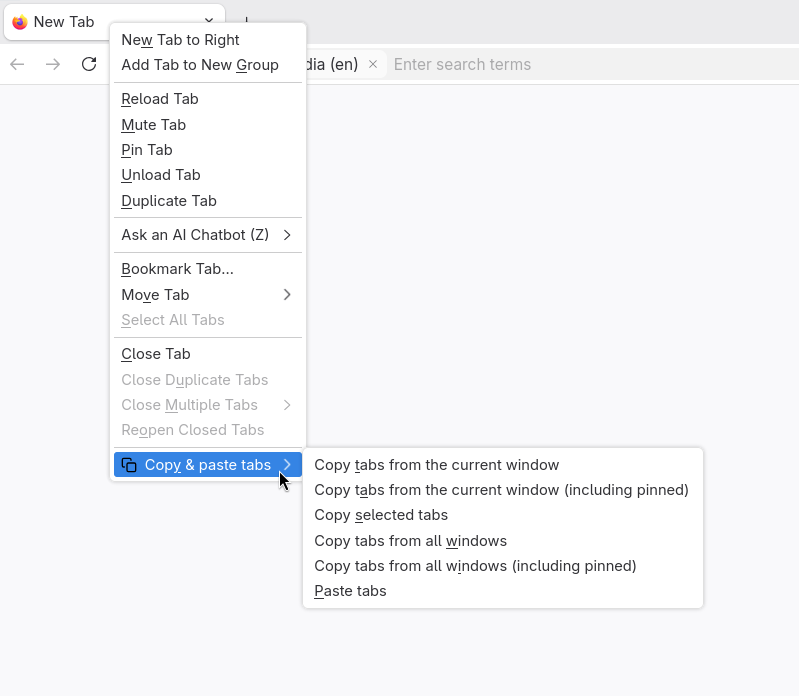
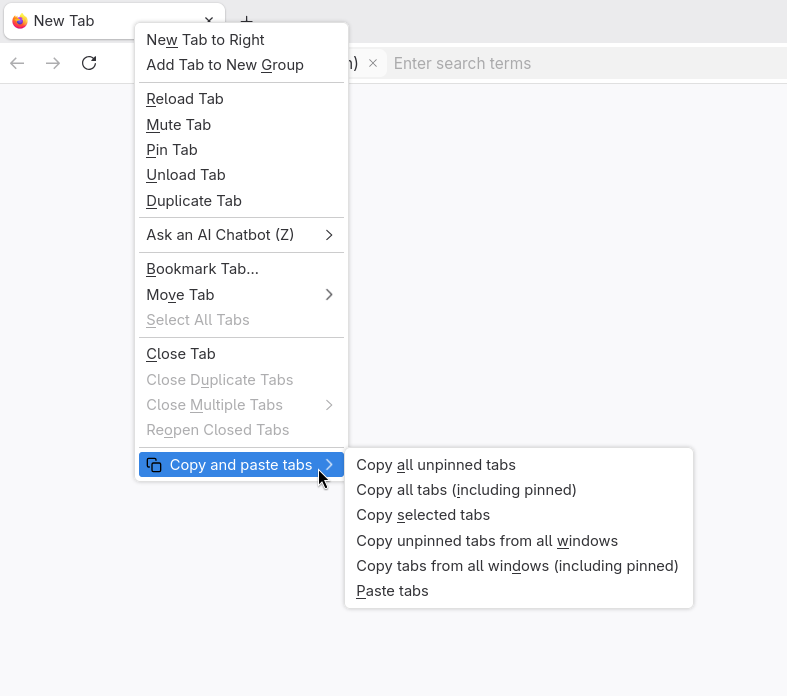
Clarify unpinned status in menu labels
Update context menu labels in `background.js` to explicitly state when
only unpinned tabs are being copied. This ensures the UI accurately
reflects the underlying filter logic.

- Update `Copy &all tabs` to `Copy &all unpinned tabs`.
- Update `Copy tabs from all &windows` to
  `Copy unpinned tabs from all &windows`.
- Change the mnemonic in `Copy all tabs (&including pinned)` from `p`
  to `i`.
- Remove internal documentation comments for mnemonic assignments.
- Update `screenshot.png` to reflect the refined menu labels.

Changed region(s): [[0.0, 0.0, 0.8539, 0.875], [0.4879, 0.0905, 0.6709, 0.1207], [0.0, 0.0905, 0.0305, 0.1207]]

diff --git a/background.js b/background.js
@@ -25,42 +25,42 @@ browser.runtime.onInstalled.addListener(async () => {
   await browser.menus.create({
     id: "copy-all-tabs",
     parentId: "parent-menu",
-    title: "Copy &all tabs", // 'a' is a good shortcut for 'all'
+    title: "Copy &all unpinned tabs",
     contexts: ["tab"]
   });
 
   await browser.menus.create({
     id: "copy-all-tabs-including-pinned",
     parentId: "parent-menu",
-    title: "Copy all tabs (including &pinned)", // 'p' for pinned
+    title: "Copy all tabs (&including pinned)",
     contexts: ["tab"]
   });
 
   await browser.menus.create({
     id: "copy-selected-tabs",
     parentId: "parent-menu",
-    title: "Copy &selected tabs", // 's' for selected
+    title: "Copy &selected tabs",
     contexts: ["tab"]
   });
 
   await browser.menus.create({
     id: "copy-all-windows",
     parentId: "parent-menu",
-    title: "Copy tabs from all &windows", // 'w' for windows
+    title: "Copy unpinned tabs from all &windows",
     contexts: ["tab"]
   });
 
   await browser.menus.create({
     id: "copy-all-windows-including-pinned",
     parentId: "parent-menu",
-    title: "Copy tabs from all windows (including pinne&d)", // 'd' because 'p' is taken
+    title: "Copy tabs from all windows (including pinne&d)",
     contexts: ["tab"]
   });
 
   await browser.menus.create({
     id: "paste-tabs",
     parentId: "parent-menu",
-    title: "&Paste tabs", // 'p' for paste
+    title: "&Paste tabs",
     contexts: ["tab"]
   });
 });
